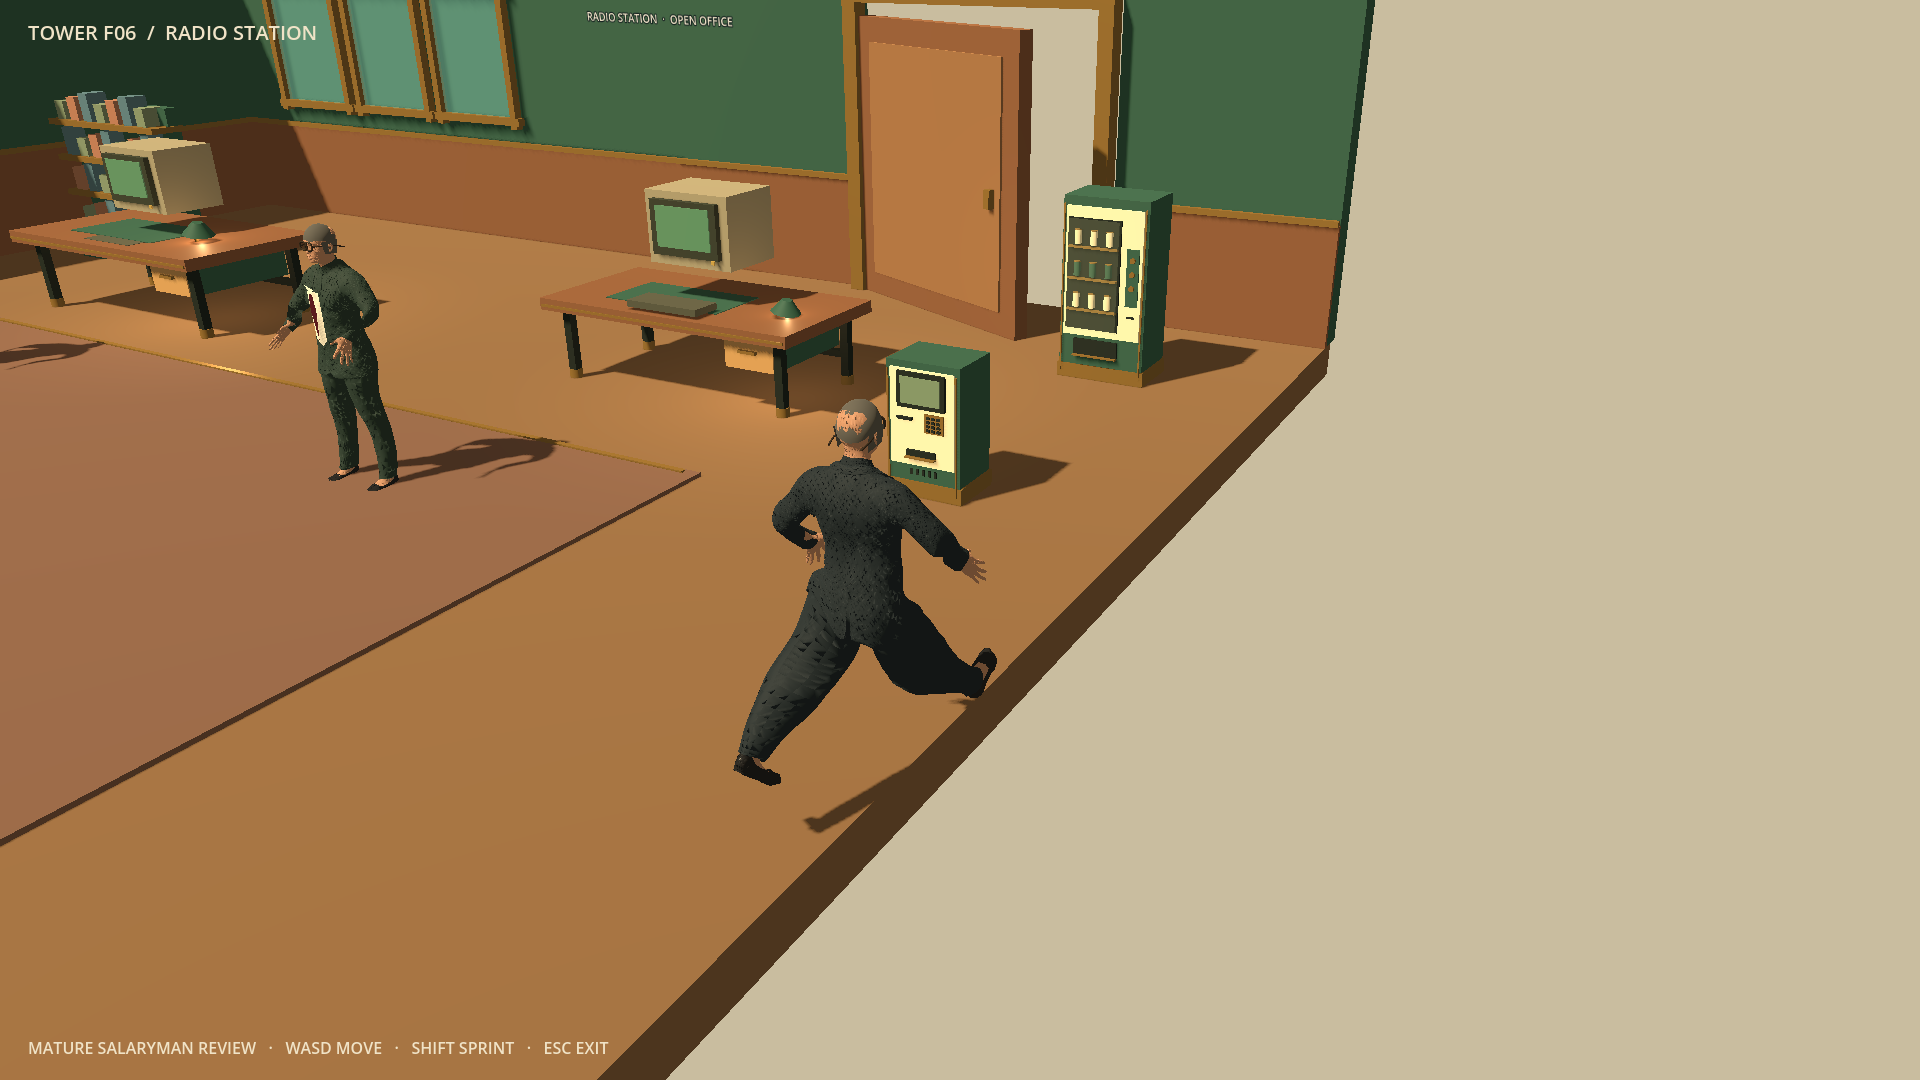
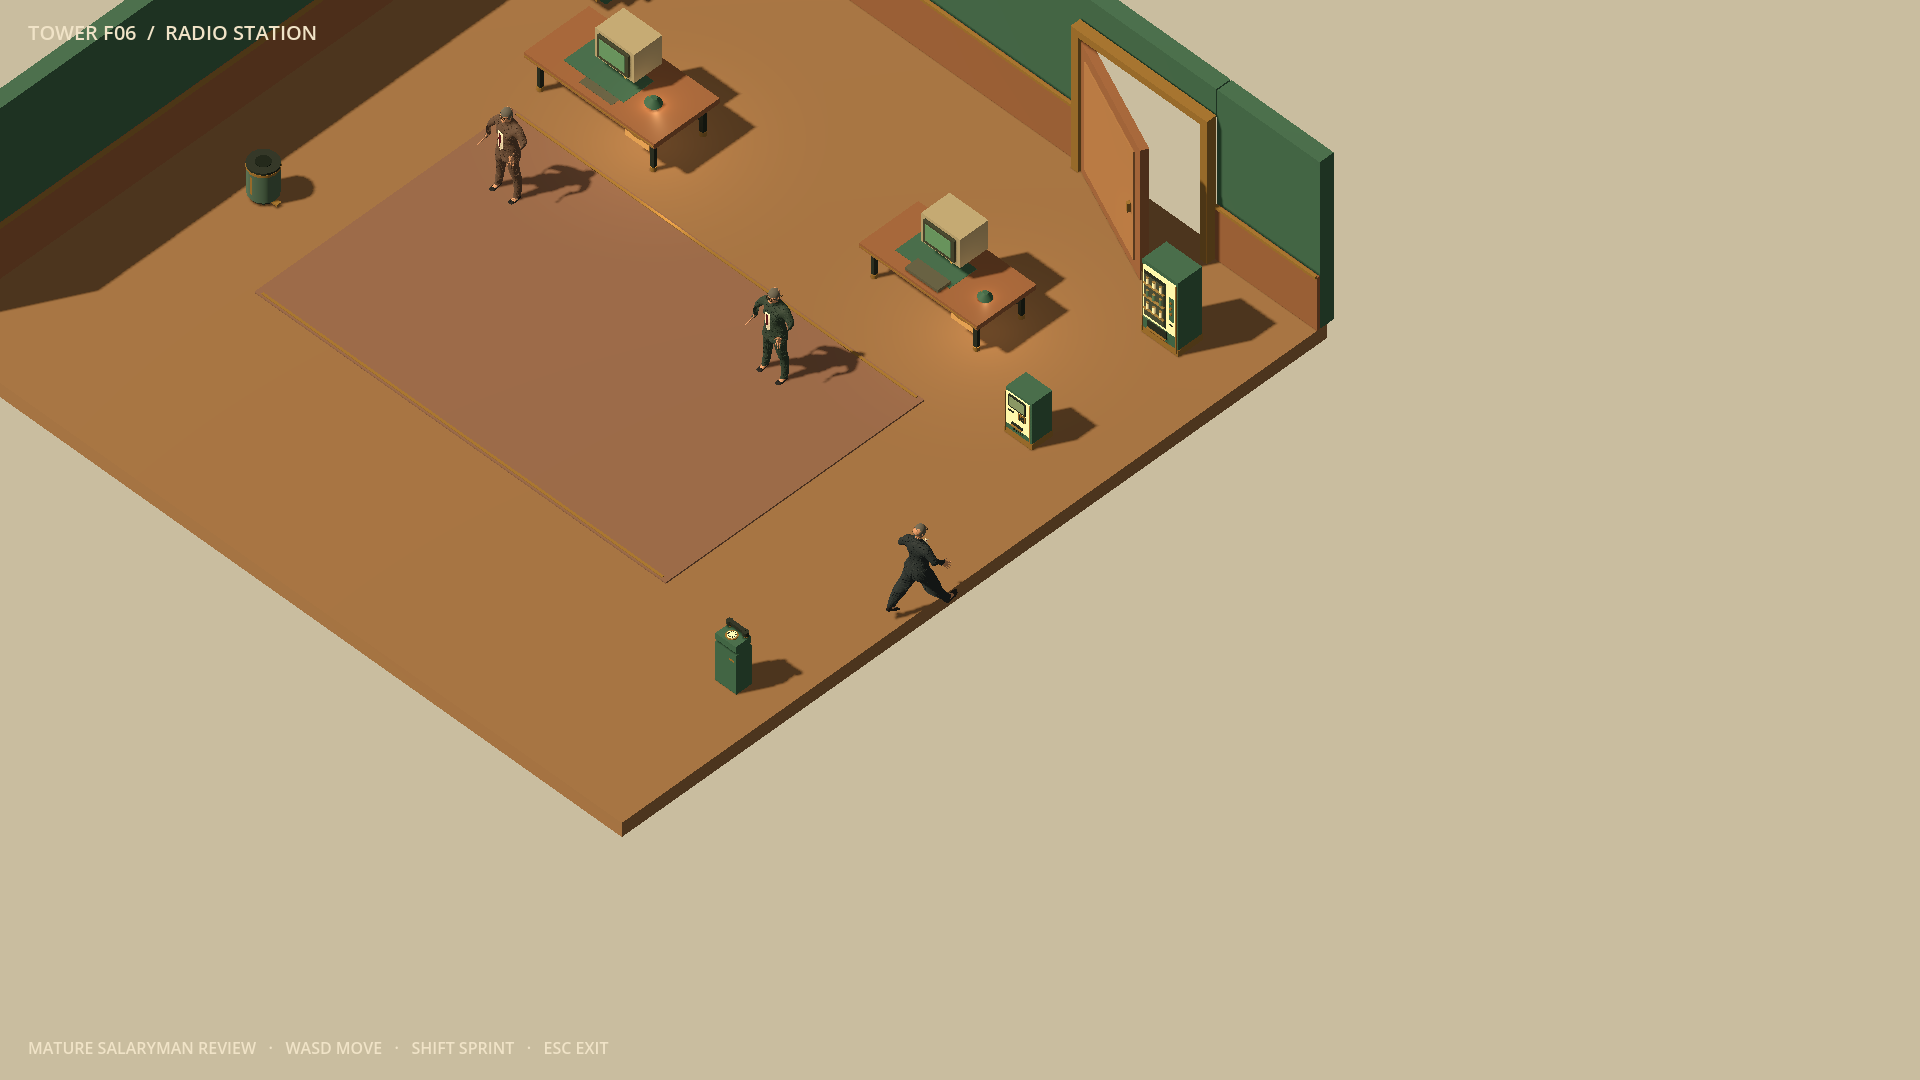
Update salaryman character previews and agent metadata
Replit-Commit-Author: Agent

diff --git a/artifacts/mockup-sandbox/src/.generated/mockup-components.ts b/artifacts/mockup-sandbox/src/.generated/mockup-components.ts
@@ -10,6 +10,6 @@ export const modules: ModuleMap = {
   "./components/mockups/salaryman-mainnav/Consolidated.tsx": () => import("../components/mockups/salaryman-mainnav/Consolidated.tsx"),
   "./components/mockups/salaryman-mainnav/Current.tsx": () => import("../components/mockups/salaryman-mainnav/Current.tsx"),
   "./components/mockups/salaryman-pricing-clean/Plans.tsx": () => import("../components/mockups/salaryman-pricing-clean/Plans.tsx"),
-  "./components/mockups/salaryman-professional-home/ProfessionalHome.tsx": () => import("../components/mockups/salaryman-professional-home/ProfessionalHome.tsx"),
-  "./components/mockups/salaryman-signal-field/SalarymanSignalField.tsx": () => import("../components/mockups/salaryman-signal-field/SalarymanSignalField.tsx")
+  "./components/mockups/salaryman-signal-field/SalarymanSignalField.tsx": () => import("../components/mockups/salaryman-signal-field/SalarymanSignalField.tsx"),
+  "./components/mockups/salaryman-professional-home/ProfessionalHome.tsx": () => import("../components/mockups/salaryman-professional-home/ProfessionalHome.tsx")
 };

diff --git a/.agents/memory/godot-visual-continuity.md b/.agents/memory/godot-visual-continuity.md
@@ -35,3 +35,9 @@ Keep the player's current room completely clear. Place fog only beyond its bound
 **Why:** The user requested fog around rooms for privacy and to focus attention on the player's location.
 
 **How to apply:** Keep the active room legible and do not rely on fog to protect room or player data.
+
+Character-review and Tower gameplay cameras should use the elevated overhead 3D view, not a close perspective chase angle.
+
+**Why:** The user explicitly corrected the review camera: the view should be overhead while remaining 3D.
+
+**How to apply:** Match the main Godot game's overhead camera when building character-review scenes and previews.

diff --git a/godot/office-client/review/REALISTIC_SALARYMAN_REVIEW.md b/godot/office-client/review/REALISTIC_SALARYMAN_REVIEW.md
@@ -7,7 +7,8 @@ godot --path godot/office-client res://review/character_walk_preview.tscn
 ```
 
 Use WASD or the arrow keys to move, Shift to sprint, and Escape to exit. The
-scene uses the native Godot office props and two review-only coworkers.
+scene uses the native Godot office props, two review-only coworkers, and the
+game's elevated overhead 3D camera.
 
 The review GLB keeps the existing seven-bone rig and all 32 named animation
 clips. It is not wired into the shared player/NPC roster; do not promote it
